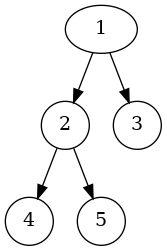
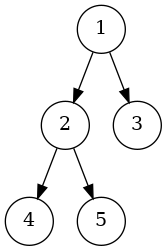
improved draw method in decisiontree.py

diff --git a/decisiontree.py b/decisiontree.py
@@ -2,64 +2,6 @@ from core import get_solutions
 from dataclasses import dataclass
 import pydot
 
-'''
-class Node:
-    def __init__(self, value):
-        self.value = value
-
-    def get_value(self):
-        return self.value
-
-
-class BinTree:
-    root = 0
-
-    def __init__(self, nodes):
-        self.num_nodes = len(nodes)
-        self.nodes = nodes
-
-    def get_root(self):
-        return self.root
-
-    def left_child(self, n):
-        try:
-            return self.nodes[2 * n + 1]
-        except IndexError as e:
-            print(e)
-
-    def right_child(self, n):
-        try:
-            return self.nodes[2 * n + 2]
-        except IndexError as e:
-            print(e)
-            
-            
-
-
-n1 = Node('a')
-n2 = Node('b')
-n3 = Node('c')
-
-# t = BinTree([n1, n2, n3])
-# print(t.left_child(t.get_root()))
-solutions = get_solutions()
-for i, s in enumerate(solutions):
-    g = pydot.Dot('t%i' % i, graph_type='digraph')
-    v_var = s['v']
-    for k in v_var:
-        g.add_node(pydot.Node('%s' % k, shape='circle'))
-
-    l_var = s['l']
-    for k, v in l_var.items():
-        g.add_edge(pydot.Edge(k, v, color='black'))
-
-    r_var = s['r']
-    for k, v in r_var.items():
-        g.add_edge(pydot.Edge(k, v, color='black'))
-
-    g.write_png('t%i.png' % i)
-'''
-
 
 @dataclass
 class Node:
@@ -171,15 +113,22 @@ class DecisionTree:
         """
         g = pydot.Dot('tree', graph_type='digraph')
 
+        visited = set()  # already visited nodes
+
         # Scan each node in the tree
         for node in self.tree_structure:
-            # If the node is not a leaf...
-            if self.tree_structure[node] is not None:
-                # Get its left and right children...
+            # If the node is not a leaf and has not been visited yet...
+            if self.tree_structure[node] is not None and node not in visited:
+                # add it to the pydot graph...
+                g.add_node(pydot.Node('%s' % node, shape='circle'))
+                # and to the visited set
+                visited.add(node)
+
+                # get its left and right children...
                 left_child = self.tree_structure[node][0]
                 right_child = self.tree_structure[node][1]
 
-                # And add them to the pydot graph
+                # and add them to the pydot graph
                 g.add_node(pydot.Node('%s' % left_child, shape='circle'))
                 g.add_node(pydot.Node('%s' % right_child, shape='circle'))
 
